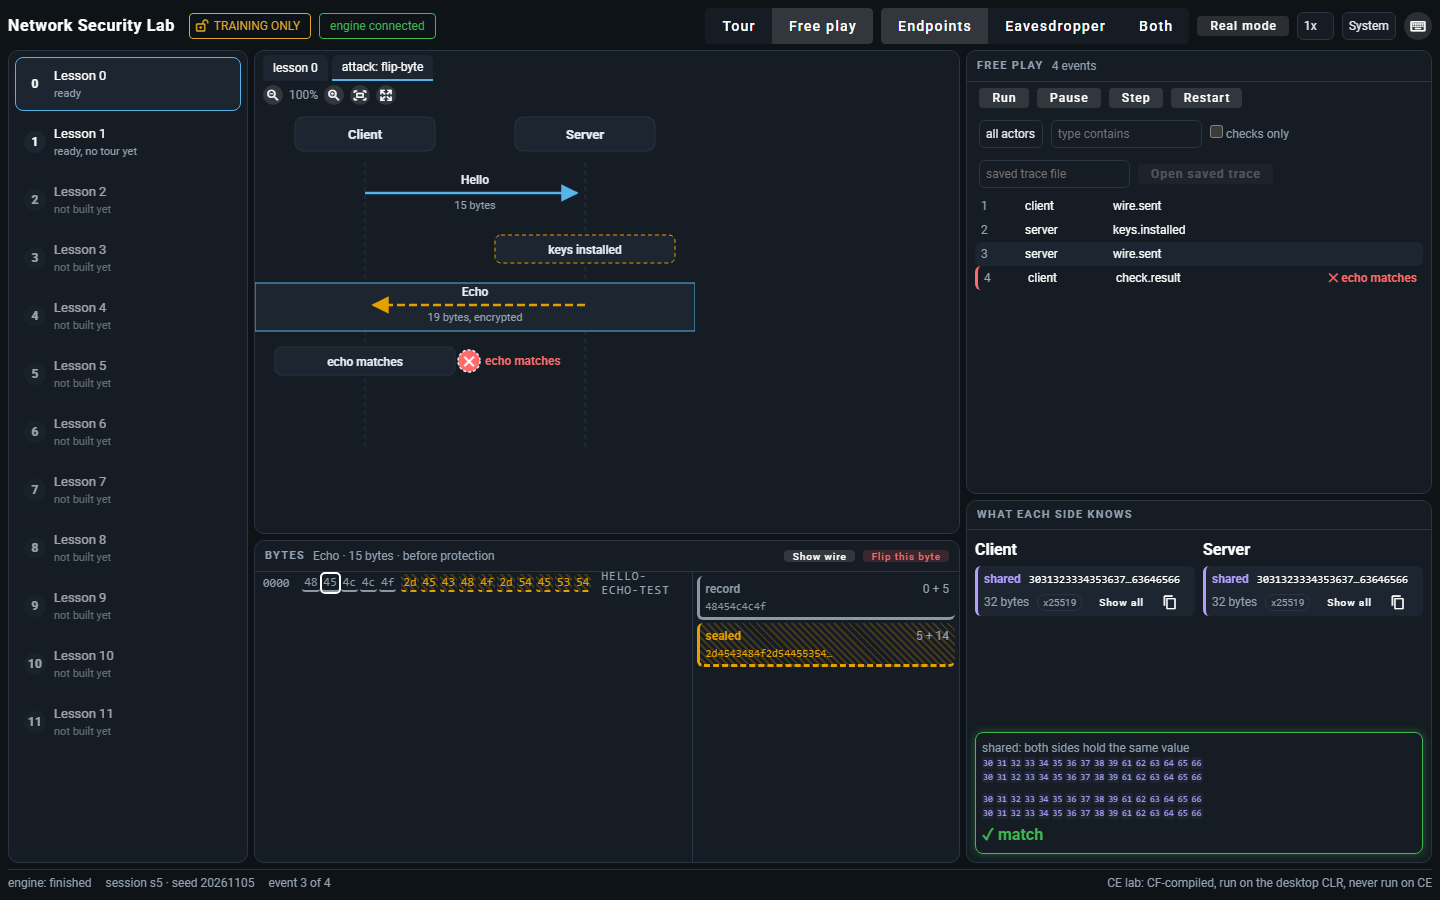
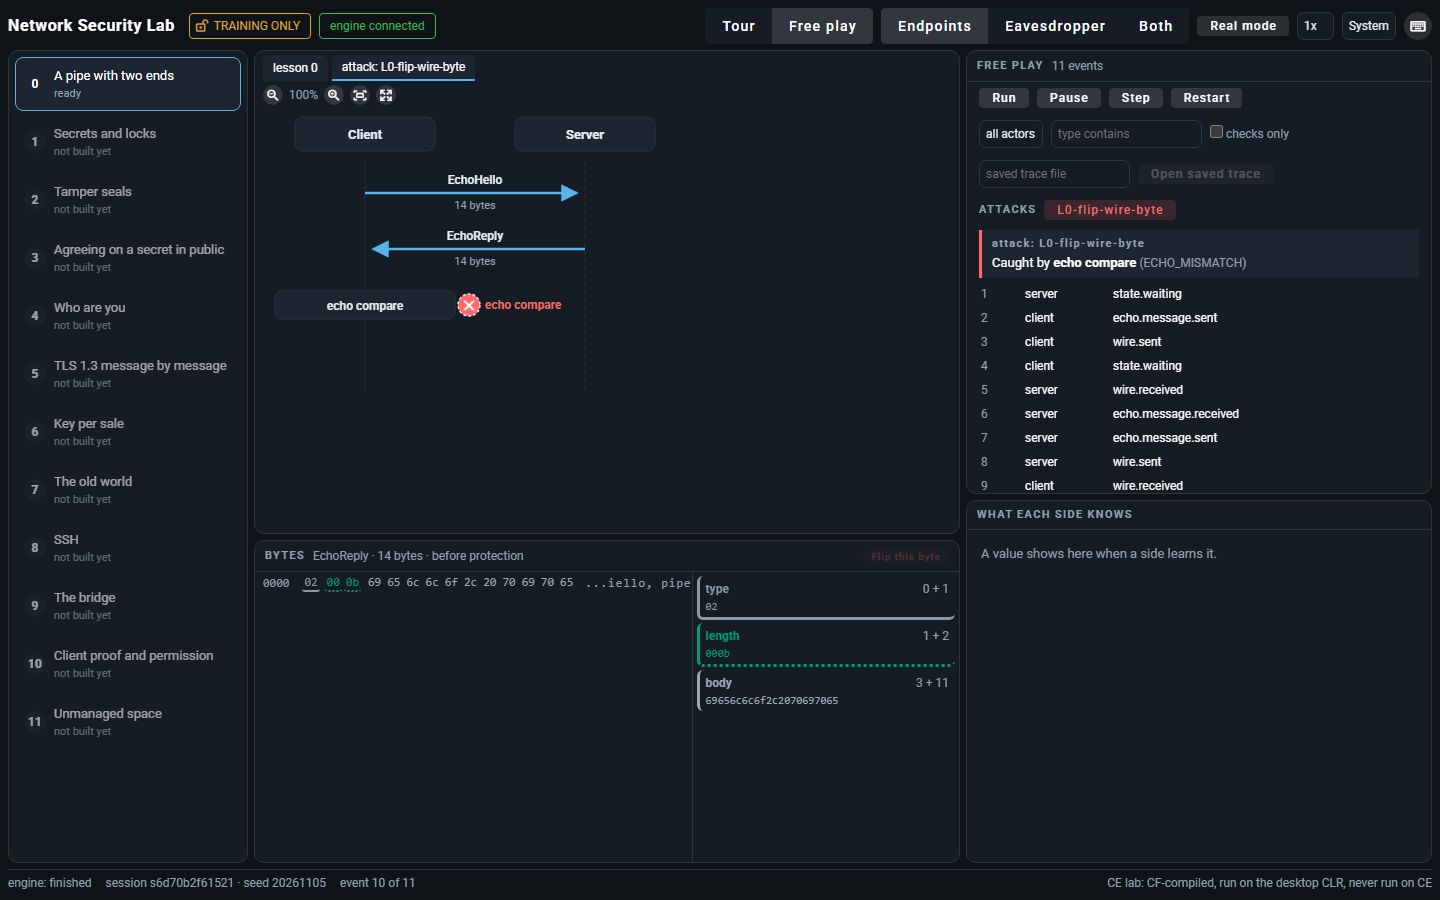
feat(app): read the real Host shapes, own-session filter, attack drawer
Arrows draw from wire.sent only. Engine events show plain bytes. Frames for sessions this
client did not start are dropped, and frames that arrive before session.started wait by id.
An attack fork runs to its result and names the check that caught it. Spawns the Host with dotnet.

Claude-Session: https://claude.ai/code/session_01CwaZqVUabzExLpmFFVu7cw

diff --git a/app/src/store.ts b/app/src/store.ts
@@ -101,7 +101,7 @@ export const unlock = computed<Unlock>(() => {
   })
 })
 
-function nextReq(): string { return `r${++reqCounter}` }
+function nextReq(): string { const id = `r${++reqCounter}`; myRequests.add(id); return id }
 function fail(code: string, message: string, retryable = false) { ui.error = { code, message, retryable, requestId: '' } }
 export function clearError() { ui.error = null }
 
@@ -150,13 +150,37 @@ async function resync() {
   } catch { /* the live feed keeps going */ }
 }
 
+// The Host sends every frame to every open socket. This client owns only the sessions it asked for: a session.started whose
+// requestId it sent. A trace or finished frame can arrive ahead of its session.started, so frames of unknown sessions wait by id.
+const myRequests = new Set<string>()
+const mySessions = new Set<string>()
+const pending = new Map<string, any[]>()
+
+function hold(f: any) {
+  const id = String(f.sessionId)
+  const list = pending.get(id) ?? []
+  if (list.length < 2000) list.push(f)
+  pending.set(id, list)
+  if (pending.size > 20) pending.delete(pending.keys().next().value as string)
+}
+
 function onFrame(f: any) {
   switch (f?.type) {
-    case 'session.started': return onStarted(f)
-    case 'trace': return onTrace(f)
-    case 'session.forked': return onForked(f)
-    case 'session.finished': return onFinished(f)
-    case 'error': ui.error = normalizeError(f); return wake()
+    case 'session.started':
+      if (!myRequests.has(String(f.requestId))) return
+      mySessions.add(String(f.sessionId))
+      onStarted(f)
+      for (const p of pending.get(String(f.sessionId)) ?? []) onFrame(p)
+      pending.delete(String(f.sessionId))
+      return
+    case 'trace': case 'session.finished':
+      if (!mySessions.has(String(f.sessionId))) return hold(f)
+      return f.type === 'trace' ? onTrace(f) : onFinished(f)
+    case 'session.forked': return mySessions.has(String(f.sessionId)) || mySessions.has(String(f.parentId)) ? onForked(f) : undefined
+    case 'error':
+      if (f.requestId && !myRequests.has(String(f.requestId))) return
+      ui.error = normalizeError(f)
+      return wake()
   }
 }
 
@@ -177,7 +201,7 @@ function onStarted(f: any) {
 
 function onTrace(f: any) {
   const ev = normalizeEvent(f)
-  const s = ui.sessions.find(x => x.id === ev.sessionId) ?? active.value
+  const s = ui.sessions.find(x => x.id === ev.sessionId)
   if (!s) return
   if (!s.events.some(e => e.seq === ev.seq)) s.events = [...s.events, ev]
   if (ev.waiting) ui.engine = 'waiting'
@@ -185,13 +209,16 @@ function onTrace(f: any) {
 }
 
 function onForked(f: any) {
+  // The fork's session.started comes first and already made the record. This frame names its parent and its attack.
   const parent = ui.sessions.find(s => s.id === String(f.parentId))
-  const rec: SessionRec = {
-    id: String(f.sessionId), parentId: String(f.parentId), label: `attack: ${f.attackId ?? 'tamper'}`, lesson: parent?.lesson ?? ui.lesson ?? 0, seed: parent?.seed ?? 0,
-    trainingOnly: parent?.trainingOnly ?? true, transportKind: parent?.transportKind ?? 'glass', events: [], finished: null, replay: false,
-  }
-  ui.sessions = [...ui.sessions.filter(s => s.id !== rec.id), rec]
+  const rec = ui.sessions.find(s => s.id === String(f.sessionId))
+  if (!rec) return
+  rec.parentId = String(f.parentId)
+  rec.label = `attack: ${f.attackId ?? 'tamper'}`
+  if (parent) { rec.lesson = parent.lesson; rec.seed = parent.seed }
   ui.activeId = rec.id
+  // An attack fork runs to its result, so the failing check shows without a second click.
+  sock?.send({ type: 'session.run', sessionId: rec.id })
   ui.viewUpTo = null
   ui.selectedSeq = null
   wake()

diff --git a/app/src/components/ByteInspector.vue b/app/src/components/ByteInspector.vue
@@ -9,7 +9,8 @@ const ROW_H = 22
 const ev = computed(() => selectedEvent.value)
 const eve = computed(() => ui.view === 'eavesdropper')
 // Endpoints read the bytes before protection; the eavesdropper reads the bytes on the wire (ux-design.md section 1.4).
-const showPlain = computed(() => (ui.showPlain != null ? ui.showPlain : !eve.value) && !!ev.value?.plain)
+// An engine event carries plain bytes and no wire, so it always shows plain.
+const showPlain = computed(() => !!ev.value?.plain && (!ev.value.wire || (ui.showPlain != null ? ui.showPlain : !eve.value)))
 const hex = computed(() => (ev.value ? (showPlain.value ? ev.value.plain : ev.value.wire) : ''))
 const bytes = computed(() => hexToBytes(hex.value))
 const fields = computed(() => (ev.value?.fields ?? []).filter(f => !eve.value || f.visibleToWire))
@@ -70,7 +71,7 @@ const canFlip = computed(() => ui.selectedByte != null && !!ev.value && !isReal.
       <span class="side-title">BYTES</span>
       <span v-if="ev" class="muted">{{ ev.message || ev.type }} · {{ bytes.length }} bytes · {{ showPlain ? 'before protection' : 'on the wire' }}</span>
       <v-spacer />
-      <v-btn v-if="ev?.plain" size="x-small" :class="{ hl: isHighlighted('inspector', 'toggle', 'wire-plain') }" data-testid="inspector-toggle-wire-plain" @click="ui.showPlain = !showPlain">{{ showPlain ? 'Show wire' : 'Show plain' }}</v-btn>
+      <v-btn v-if="ev?.plain && ev?.wire" size="x-small" :class="{ hl: isHighlighted('inspector', 'toggle', 'wire-plain') }" data-testid="inspector-toggle-wire-plain" @click="ui.showPlain = !showPlain">{{ showPlain ? 'Show wire' : 'Show plain' }}</v-btn>
       <v-btn size="x-small" color="error" :disabled="!canFlip" data-testid="flip-byte-button" @click="flipSelectedByte">Flip this byte</v-btn>
     </div>
     <div v-if="!ev || !bytes.length" class="empty-note">{{ ev ? 'This event moves no bytes.' : 'Bytes appear here when the engine sends a message.' }}</div>

diff --git a/app/src/components/EventLog.vue b/app/src/components/EventLog.vue
@@ -1,11 +1,12 @@
 <script setup lang="ts">
 import { computed, ref } from 'vue'
-import { active, allEvents, loadTrace, pauseEngine, restartSession, runEngine, selectEvent, selectedEvent, startSession, stepEngine, ui } from '../store'
+import { active, allEvents, attack, lessonRow, loadTrace, pauseEngine, restartSession, runEngine, selectEvent, selectedEvent, startSession, stepEngine, ui } from '../store'
 
 const actor = ref('')
 const type = ref('')
 const checksOnly = ref(false)
 const traceFile = ref('')
+import AttackResult from './AttackResult.vue'
 const actors = computed(() => [...new Set(allEvents.value.map(e => e.actor).filter(Boolean))])
 const rows = computed(() => allEvents.value.filter(e => (!actor.value || e.actor === actor.value) && (!type.value || e.type.includes(type.value)) && (!checksOnly.value || e.check)))
 </script>
@@ -29,6 +30,12 @@ const rows = computed(() => allEvents.value.filter(e => (!actor.value || e.actor
       <input v-model="traceFile" class="ns-input" placeholder="saved trace file" data-testid="open-trace-path" aria-label="Saved trace file" />
       <v-btn data-testid="open-trace" :disabled="!traceFile" @click="loadTrace(traceFile)">Open saved trace</v-btn>
     </div>
+    <div class="btn-row" data-testid="attacks-drawer">
+      <span class="side-title">ATTACKS</span>
+      <span v-if="!lessonRow?.attacks.length" class="muted">none for this lesson yet</span>
+      <v-btn v-for="a in lessonRow?.attacks ?? []" :key="a.attackId" color="error" :disabled="!active" :data-testid="`attack-${a.attackId}`" @click="attack({ attackId: a.attackId })">{{ a.label }}</v-btn>
+    </div>
+    <AttackResult />
     <div class="log-rows">
       <div
         v-for="e in rows" :key="e.seq" class="log-row" :class="{ sel: selectedEvent?.seq === e.seq, fail: e.check?.result === 'fail' }"

diff --git a/app/src/layout.ts b/app/src/layout.ts
@@ -23,7 +23,11 @@ export interface Row {
 }
 export interface Layout { lanes: Lane[]; rows: Row[]; width: number; height: number; learned: number; total: number }
 
-export const isProtected = (e: TraceEvent): boolean => e.plain.length > 0 && e.plain !== e.wire
+// Only wire.sent draws an arrow. wire.received repeats the same bytes for the interop check, and engine events carry no wire.
+export const isWireSent = (e: TraceEvent): boolean => e.type === 'wire.sent'
+// Protected means the engine marked part of the wire bytes as hidden from the wire (visibleToWire false). A tampered byte also makes
+// plain differ from wire, so comparing the two would call a tamper "encrypted".
+export const isProtected = (e: TraceEvent): boolean => e.wire.length > 0 && e.fields.some(f => !f.visibleToWire)
 export const byteCount = (hex: string): number => hex.length >> 1
 
 export function laneNames(events: readonly TraceEvent[], declared: readonly string[]): string[] {
@@ -43,7 +47,7 @@ export function layoutDiagram(events: readonly TraceEvent[], declared: readonly 
   for (const e of events) {
     const y = HEAD_H + 30 + rows.length * ROW_H
     const prot = isProtected(e)
-    if (e.from && e.to && e.from.toLowerCase() !== e.to.toLowerCase()) {
+    if (isWireSent(e) && e.from && e.to && e.from.toLowerCase() !== e.to.toLowerCase()) {
       total++
       if (!prot) learned++
       const hidden = view === 'eavesdropper' && prot

diff --git a/app/src/components/AttackResult.vue b/app/src/components/AttackResult.vue
@@ -1,0 +1,18 @@
+<script setup lang="ts">
+import { computed } from 'vue'
+import { active, allEvents } from '../store'
+
+// Result of an attack fork: the check that caught it, by name, or a plain statement that no check did (ux-design.md section 7).
+const fork = computed(() => (active.value?.parentId ? active.value : null))
+const failed = computed(() => allEvents.value.find(e => e.check?.result === 'fail')?.check ?? null)
+const fin = computed(() => fork.value?.finished ?? null)
+</script>
+
+<template>
+  <div v-if="fork" class="attack-result" data-testid="attack-result">
+    <div class="side-title">{{ fork.label }}</div>
+    <div v-if="failed">Caught by <b data-testid="check-name">{{ failed.name }}</b> <span class="muted">({{ failed.code }})</span></div>
+    <div v-else-if="fin">The session ended: {{ fin.outcome }}{{ fin.check ? `, check ${fin.check}` : '' }}{{ fin.code ? ` (${fin.code})` : '' }}</div>
+    <div v-else class="muted">The tampered session is running. If it stops and waits, the receiver is still waiting for bytes that never came.</div>
+  </div>
+</template>

diff --git a/app/src/components/TourPanel.vue b/app/src/components/TourPanel.vue
@@ -2,7 +2,8 @@
 import { computed } from 'vue'
 import { LESSON_NOTES, active, doTryIt, lessonRow, startSession, step, steps, tour, tourBack, tourNext, tourReplay, unlock, ui } from '../store'
 import { splitText } from '../tour'
-import Term from './Term.vue'
+import AttackResult from "./AttackResult.vue"
+import Term from "./Term.vue"
 
 const paragraphs = computed(() => (step.value?.text ?? []).map(splitText))
 const noTour = computed(() => steps.value.length === 0)
@@ -47,6 +48,7 @@ const note = computed(() => (ui.lesson != null ? LESSON_NOTES[ui.lesson] ?? '' :
         <v-btn data-testid="tour-replay" @click="tourReplay">Replay step</v-btn>
         <v-btn color="primary" variant="flat" :disabled="!unlock.open" data-testid="tour-next" @click="tourNext">{{ last ? "Finish" : "Next" }}</v-btn>
       </div>
+      <AttackResult />
       <div v-if="!unlock.open" class="next-reason" data-testid="next-reason">{{ unlock.reason }}</div>
     </div>
   </div>

diff --git a/app/src/components/LessonRail.vue b/app/src/components/LessonRail.vue
@@ -1,5 +1,5 @@
 <script setup lang="ts">
-import { lessonDone, lessons, selectLesson, ui } from '../store'
+import { isHighlighted, lessonDone, lessons, selectLesson, ui } from '../store'
 import { TOURS } from '../tour'
 
 function status(n: number, built: boolean): string {
@@ -12,7 +12,7 @@ function status(n: number, built: boolean): string {
 <template>
   <nav class="rail" data-testid="lesson-rail" aria-label="Lessons">
     <button
-      v-for="l in lessons" :key="l.lesson" type="button" class="rail-item" :class="{ on: ui.lesson === l.lesson, off: !l.built }"
+      v-for="l in lessons" :key="l.lesson" type="button" class="rail-item" :class="{ on: ui.lesson === l.lesson, off: !l.built, hl: isHighlighted('rail', 'lesson', String(l.lesson)) }"
       :data-testid="`lesson-item-${l.lesson}`" :aria-current="ui.lesson === l.lesson ? 'true' : undefined" @click="selectLesson(l.lesson)"
     >
       <span class="rail-num">{{ l.lesson }}</span>

diff --git a/app/src/style.css b/app/src/style.css
@@ -156,3 +156,4 @@ body { background: var(--bg); color: var(--text); overflow: hidden; }
 .v-btn.hl { outline: 2px solid var(--focus); }
 .hex-ascii { white-space: nowrap; }
 .hex-row { width: max-content; min-width: 100%; }
+.attack-result { margin: 4px 12px; padding: 6px 10px; border-left: 3px solid var(--fail); background: var(--surface2); font-size: 13px; }
